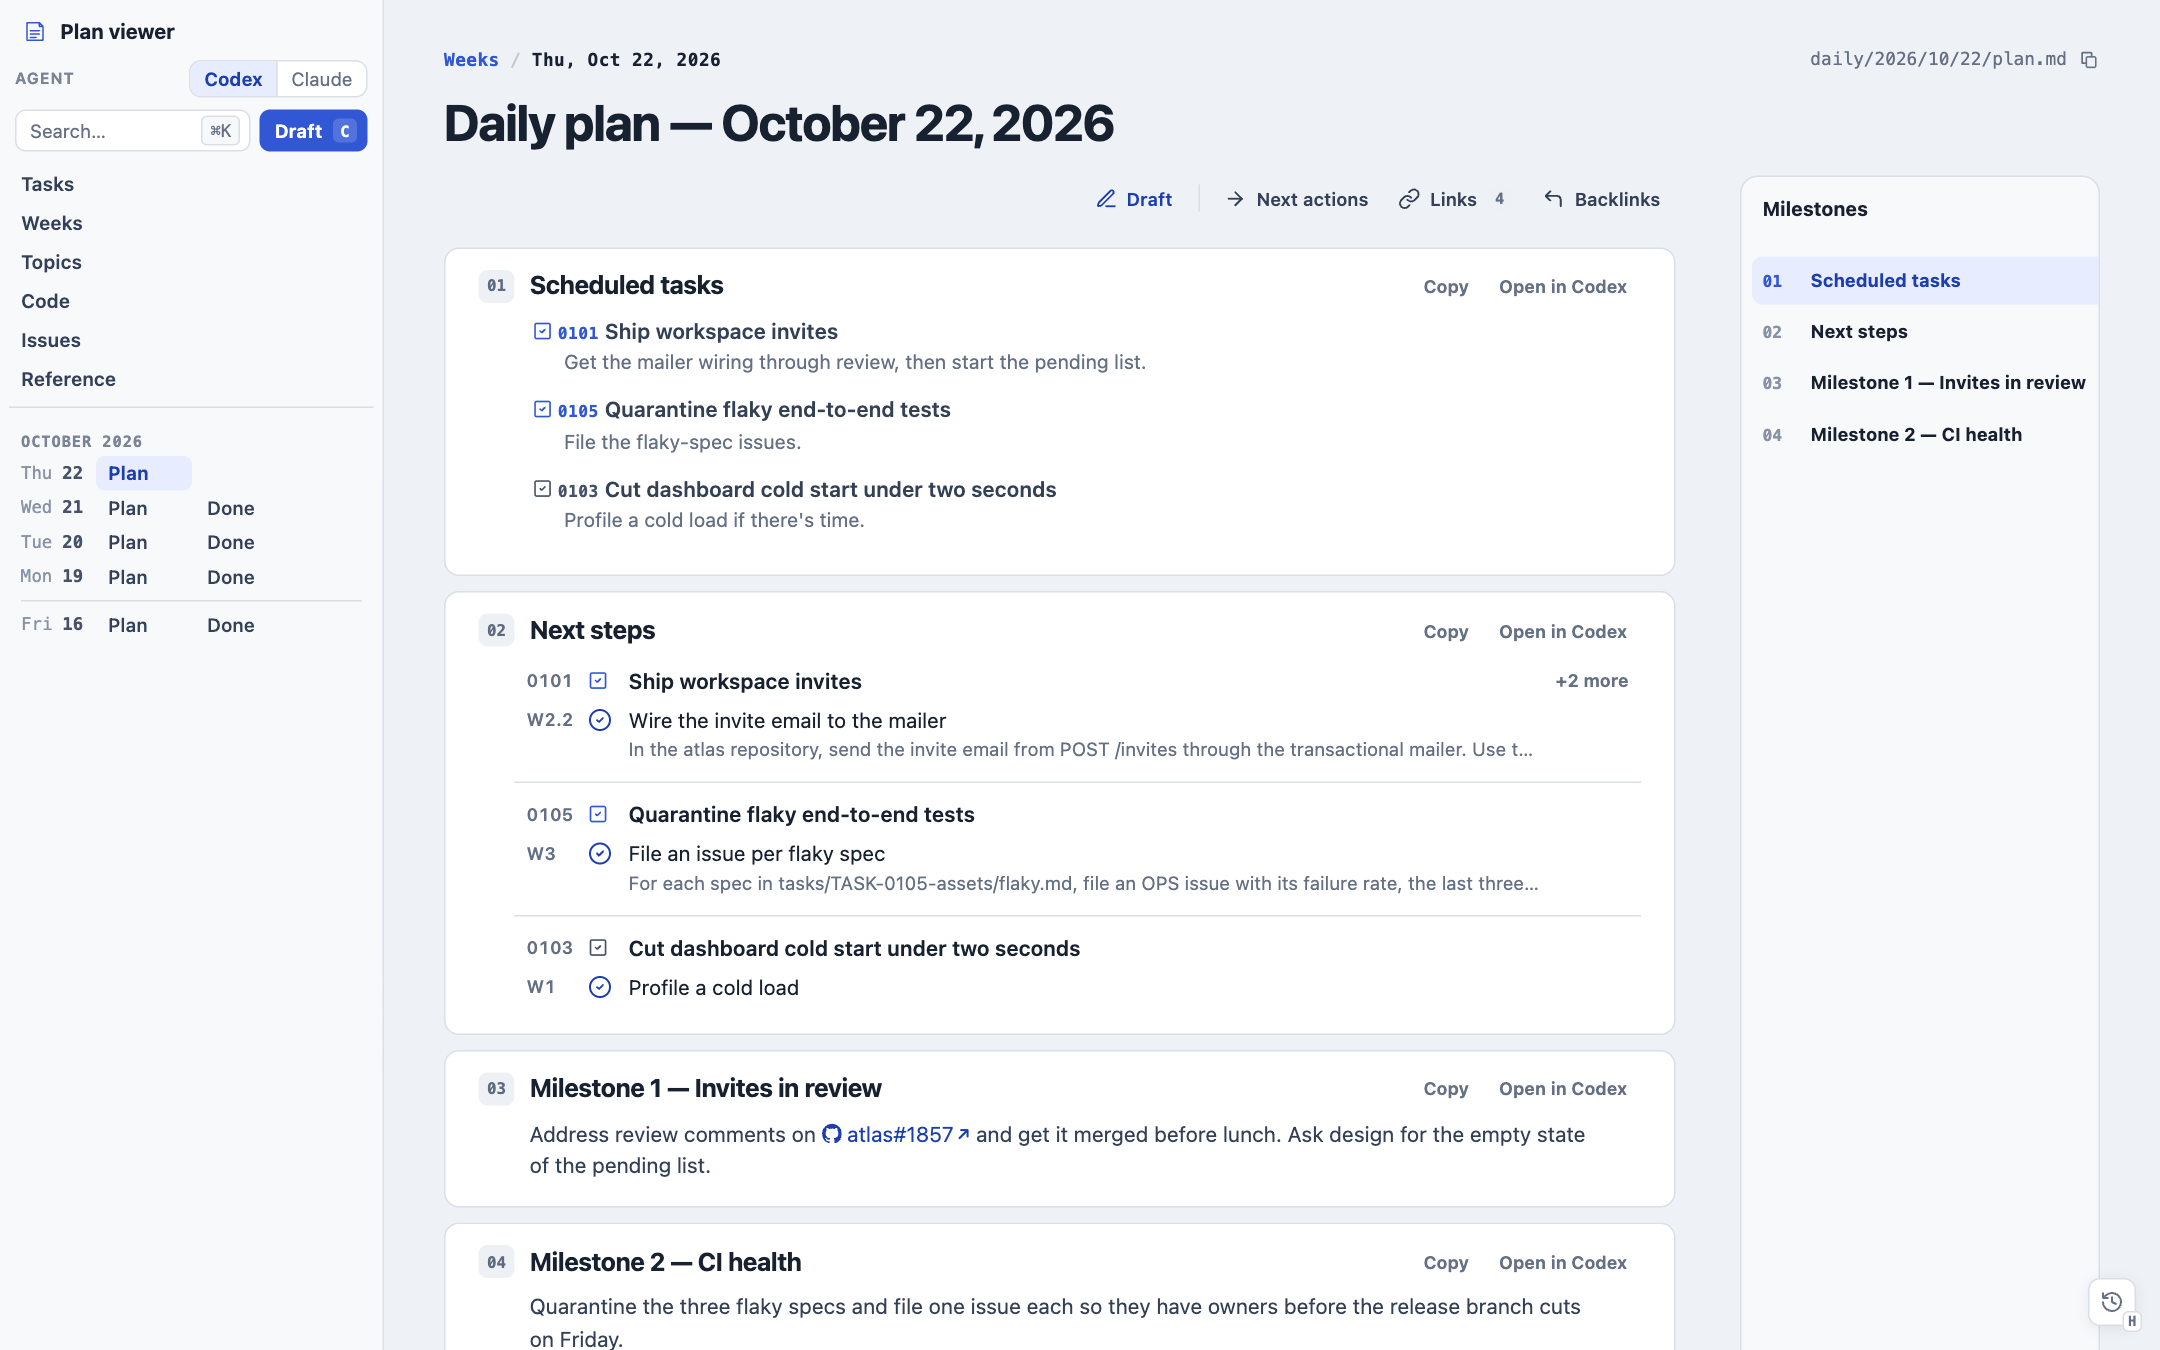
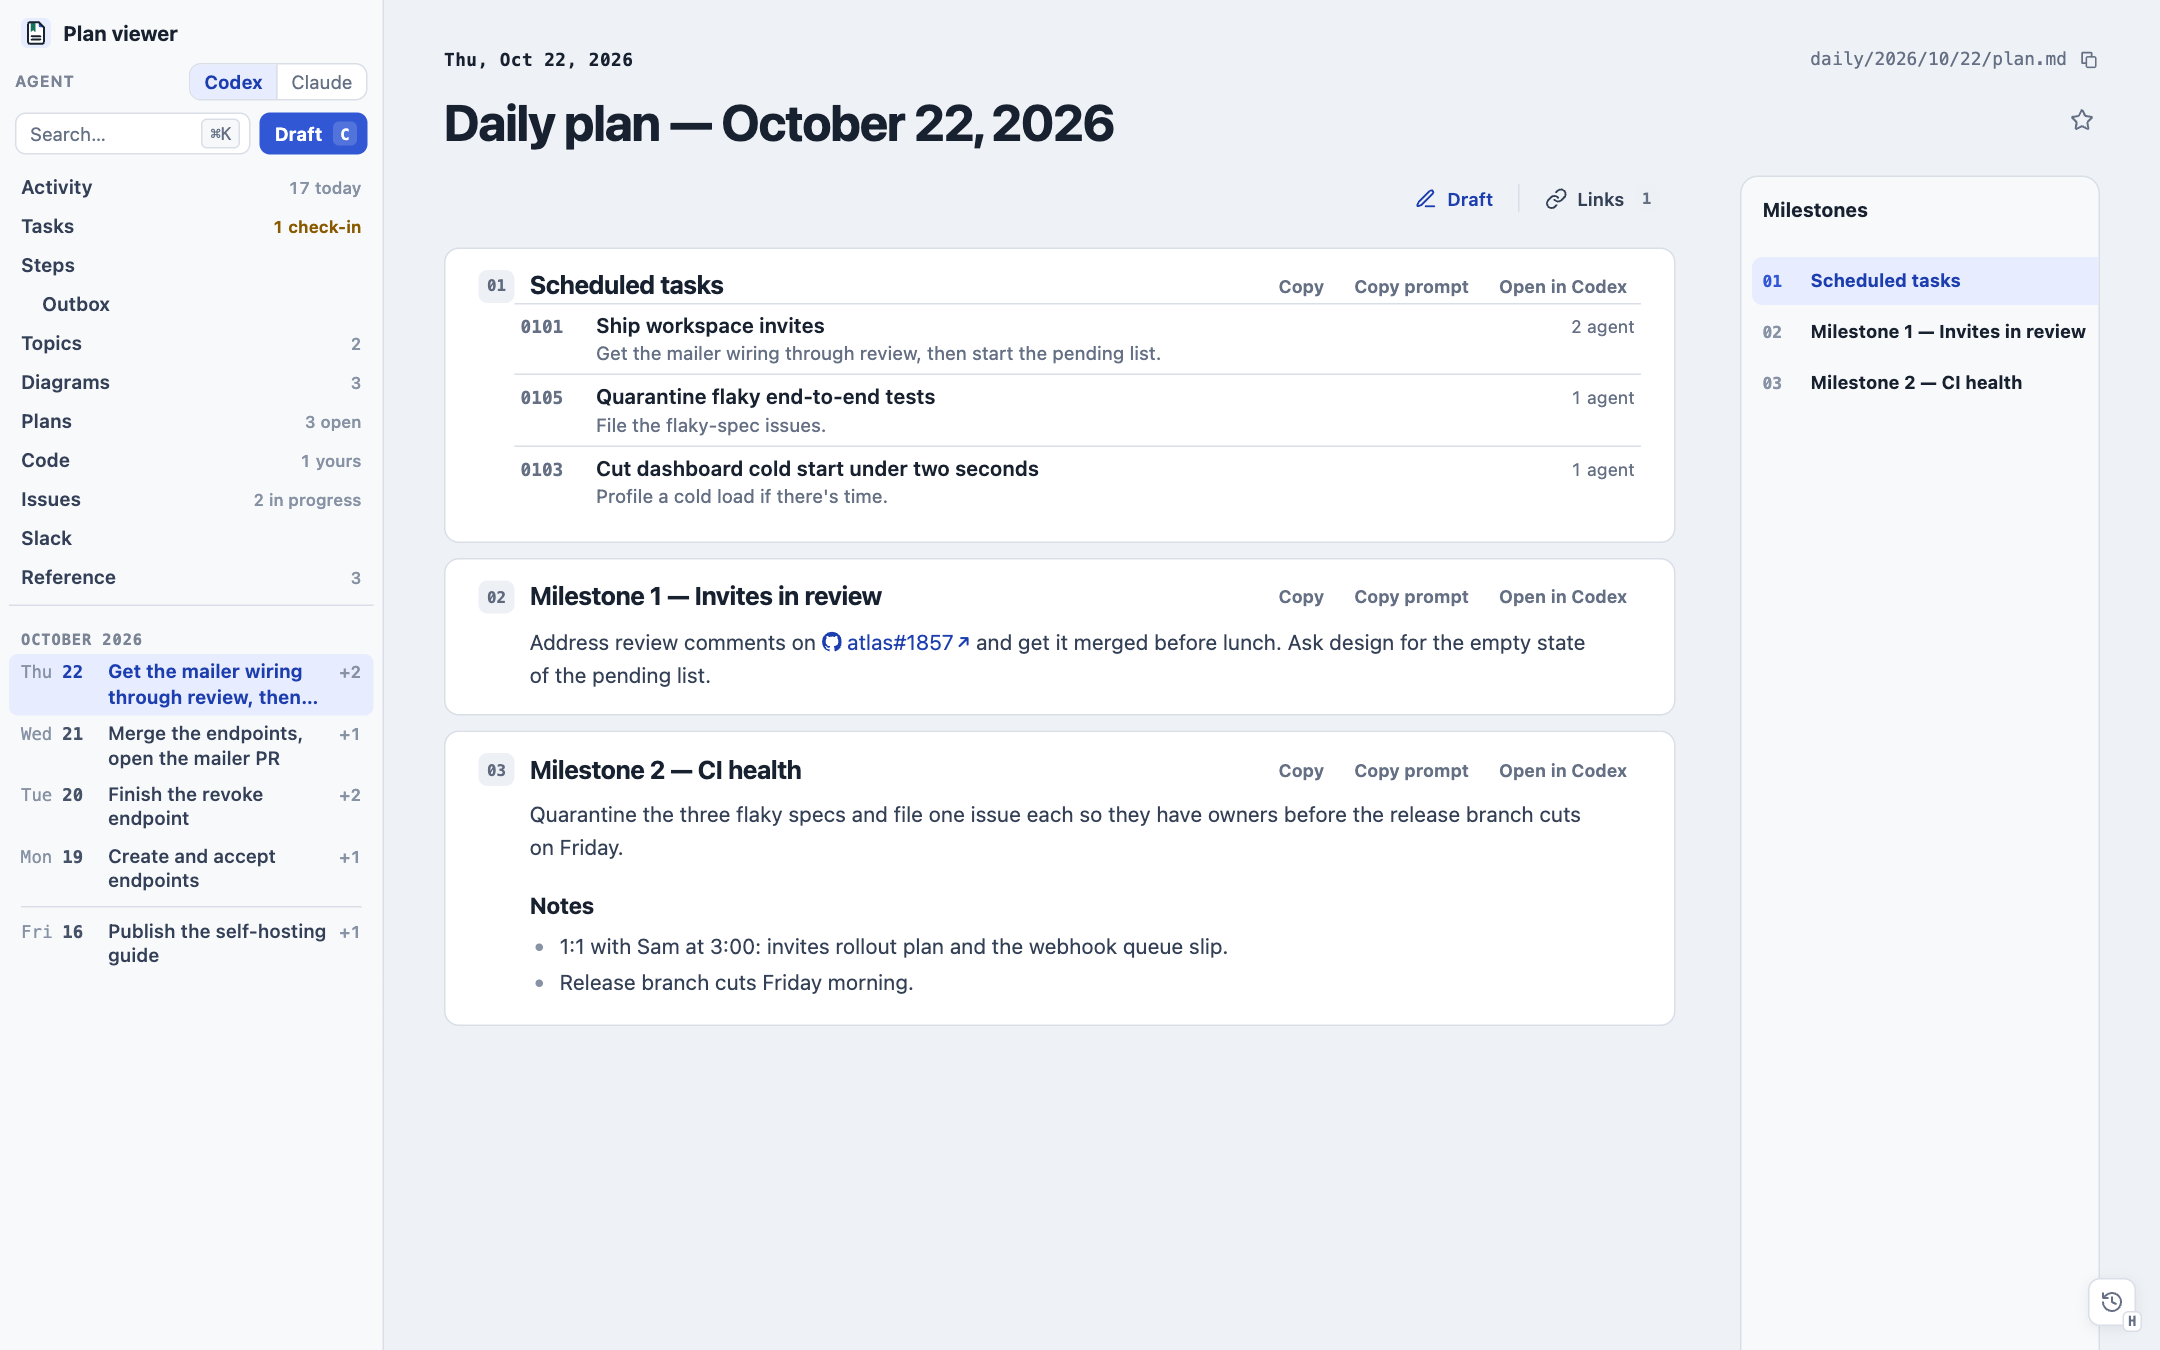
Steps: Scheduled tasks keep the plan's note after a colon too; new README screenshots
A plan's note for a scheduled task is whatever follows the task's link or ID, after a
colon or a dash (scheduledTasks in steps-page.js, tested). The README's today, action and
task screenshots show the Steps panel and the step dialog.

diff --git a/public/app.js b/public/app.js
@@ -15,7 +15,7 @@ import { installBrief } from "./brief.js";
 import { comparePanels, inlineSvg, isDiffDiagram, sourceHtml } from "./diagram.js";
 import { diagramsPageHtml, filterDiagrams } from "./diagrams-page.js";
 import { bindOutbound, outboundPanel } from "./outbound.js";
-import { MOVE_FILTERS, KIND_FILTERS, moveCounts, movePill, showStepLayer, stepActionsHtml, stepBodyHtml, stepInspectorHtml, stepKey, stepRowHtml, stepStackHtml, stepsTableHtml, stepsToolbarHtml, stepToggleHtml, taskStepsHtml, visibleSteps } from "./steps-page.js";
+import { MOVE_FILTERS, KIND_FILTERS, moveCounts, movePill, showStepLayer, stepActionsHtml, stepBodyHtml, stepInspectorHtml, stepKey, scheduledTasks, stepRowHtml, stepStackHtml, stepsTableHtml, stepsToolbarHtml, stepToggleHtml, taskStepsHtml, visibleSteps } from "./steps-page.js";
 import { connectWorld, fetchWorld, openPortfolio, openTaskWorld, taskCounts } from "./world.js";
 import { cachedPlans, loadPlans, openPlan, planForLink, planTitle, plansSummary, renderPlansPage, searchPlans, setPlanNotice } from "./plans.js";
 import { AGENTS, agentApp, agentName, config, issuesOn, referenceConfig, setConfig, setAgentApp } from "./config.js";
@@ -1818,25 +1818,18 @@ const chunkTitle = (doc, chunk) => showsSteps(doc) && /^work breakdown$/i.test(c
 // A plan's Scheduled tasks as one panel: per task its short ID, title and the plan's note for it (muted, in full), with its
 // open steps counted by who moves next. A row opens the step dialog on that task at its first step waiting on you.
 function scheduledTasksHtml(doc, chunk) {
-  const rows = [], rest = [];
-  for (const line of chunk.markdown.split("\n")) {
-    const id = /^[-*] /.test(line) && line.match(/TASK-\d{4}/)?.[0];
-    if (id) rows.push({ id, note: line.replace(/^[-*] /, "").split(/\s+[—–-]\s+/).slice(1).join(" — ") });
-    else if (rows.length && /^\s+\S/.test(line)) rows.at(-1).note += ` ${line.trim().replace(/^[-*] /, "")}`;
-    else rest.push(line);
-  }
+  const { rows, rest } = scheduledTasks(chunk.markdown);
   if (!rows.length) return `<div class="markdown">${renderMarkdownSource(chunk.markdown, doc.path)}</div>`;
   if (!stepsData) loadSteps().then(() => { if (state.view === "document" && state.document === doc) renderDocument(); });
-  const plain = (text) => text.replace(/\[([^\]]*)\]\([^)]*\)/g, "$1").replace(/[`*_]/g, "").trim();
   const html = rows.map(({ id, note }) => {
     const task = state.documents.find((candidate) => candidate.task?.id === id)?.task;
     const steps = stepsData?.steps.filter((step) => step.task === id) || [];
     const count = (moves) => steps.filter((step) => moves.includes(step.move)).length;
     const meta = !task ? "missing" : isSettled(task.status) || task.status === "waiting" ? TASK_STATUS_LABELS[task.status].toLowerCase()
       : [[count(MOVE_FILTERS.you), "you"], [count(MOVE_FILTERS.agent), "agent"], [count(MOVE_FILTERS.others), "waiting"]].filter(([n]) => n).map(([n, label]) => `${n} ${label}`).join(" · ");
-    return stepRowHtml({ key: id, lead: `<code class="step-row-id">${escapeHtml(id.slice(5))}</code>`, title: task?.title || id, note: plain(note), meta: escapeHtml(meta), className: " is-task" });
+    return stepRowHtml({ key: id, lead: `<code class="step-row-id">${escapeHtml(id.slice(5))}</code>`, title: task?.title || id, note, meta: escapeHtml(meta), className: " is-task" });
   }).join("");
-  const remaining = rest.join("\n").trim();
+  const remaining = rest.trim();
   return `<div class="step-rows scheduled-tasks" style="--step-lead: 4ch">${html}</div>${remaining ? `<div class="markdown">${renderMarkdownSource(remaining, doc.path)}</div>` : ""}`;
 }
 

diff --git a/public/steps-page.js b/public/steps-page.js
@@ -104,6 +104,20 @@ export function showStepLayer(panel, move) {
 }
 export const stepRowHtml = ({ key, lead = "", pill = "", title, note = "", meta = "", className = "" }) => `<button type="button" class="step-row${className}" data-open-step="${escapeHtml(key)}"><span class="step-row-lead">${lead}</span><span class="step-row-title">${pill}${escapeHtml(title)}${note ? `<span class="step-row-note">${escapeHtml(note)}</span>` : ""}</span><span class="step-row-meta">${meta}</span></button>`;
 
+// A plan's Scheduled tasks section: one row per task bullet with the plan's note for it as plain text (whatever follows the
+// task's link or ID, after a colon or dash; indented lines under it continue the note), and the section's other lines.
+export function scheduledTasks(markdown) {
+  const rows = [], rest = [];
+  for (const line of markdown.split("\n")) {
+    const id = /^[-*] /.test(line) && line.match(/TASK-\d{4}/)?.[0];
+    if (id) rows.push({ id, note: line.replace(/^[-*]\s+(?:\[[^\]]*\]\([^)]*\)|\S*TASK-\d{4}\S*)\s*[:—–-]?\s*/, "") });
+    else if (rows.length && /^\s+\S/.test(line)) rows.at(-1).note += ` ${line.trim().replace(/^[-*] /, "")}`;
+    else rest.push(line);
+  }
+  for (const row of rows) row.note = row.note.replace(/\[([^\]]*)\]\([^)]*\)/g, "$1").replace(/[`*_]/g, "").trim();
+  return { rows, rest: rest.join("\n") };
+}
+
 // A task's Steps panel (its page and its dock's Work panel): the toggle with this task's counts, then every step under a
 // light header line per workstream (top-level item), each row with its ID, status icon, a pill only when it waits on you,
 // the full title, and gray meta (`ready`, `after W1.2`, `running`, its note count). Completed and deferred steps sit behind

diff --git a/step-list.test.js b/step-list.test.js
@@ -1,7 +1,7 @@
 import assert from 'node:assert/strict';
 import test from 'node:test';
 import { parseWorkBreakdown } from './public/actions.js';
-import { movePill, taskStepsHtml, stepActionsHtml, stepBodyHtml, stepRowHtml, stepToggleHtml } from './public/steps-page.js';
+import { movePill, scheduledTasks, taskStepsHtml, stepActionsHtml, stepBodyHtml, stepRowHtml, stepToggleHtml } from './public/steps-page.js';
 
 const step = (fields) => ({ key: 'TASK-0101 W1', task: 'TASK-0101', id: 'W1', title: 'Decide the rollout', reason: 'decide', move: 'you-decide', kind: 'decision', ...fields });
 
@@ -55,4 +55,21 @@ test("a task's Steps group rows under workstreams, pill only what waits on you, 
   assert.doesNotMatch(you, /TASK-0101:W1.3/);
   assert.match(html, /data-step-layer="all">/, 'All is shown by default');
   assert.doesNotMatch(taskStepsHtml({ taskId: 'TASK-0101', work, tools: false }), /popover|data-move-default/);
+});
+
+test("a plan's scheduled tasks keep each task's note, whichever separator the plan uses", () => {
+  const { rows, rest } = scheduledTasks([
+    '- [TASK-0101](../../../../tasks/TASK-0101.md): merge #12, then [ask](https://example.com) about `W2`.',
+    '  - and check the flag',
+    '- TASK-0102 — File the issues.',
+    '- [TASK-0103](../TASK-0103.md)',
+    '',
+    'Carry-over goes to Monday.',
+  ].join('\n'));
+  assert.deepEqual(rows, [
+    { id: 'TASK-0101', note: 'merge #12, then ask about W2. and check the flag' },
+    { id: 'TASK-0102', note: 'File the issues.' },
+    { id: 'TASK-0103', note: '' },
+  ]);
+  assert.match(rest, /Carry-over goes to Monday/);
 });

diff --git a/README.md b/README.md
@@ -2,23 +2,23 @@
 
 **A local reading desk for planning in Markdown and handing the work to coding agents.**
 
-You keep daily plans, tasks, and notes as plain Markdown files in a folder or Git repository. Plan Viewer turns that folder into a fast, keyboard-driven app: today's plan as work cards, tasks with dependency graphs, and one-click handoffs that load any piece of work into a [Codex](https://openai.com/codex/) or [Claude](https://claude.com/download) desktop draft. Beside your plans sit the pull requests, worktrees, diffs, and issues that the work touches.
+You keep daily plans, tasks, and notes as plain Markdown files in a folder or Git repository. Plan Viewer turns that folder into a fast, keyboard-driven app: today's plan as work cards, tasks as lists of steps with dependency graphs, and one-click handoffs that load any piece of work into a [Codex](https://openai.com/codex/) or [Claude](https://claude.com/download) desktop draft. Beside your plans sit the pull requests, worktrees, diffs, and issues that the work touches.
 
 The viewer never edits your files. Your Markdown stays the source of truth, readable anywhere, and agents make the changes.
 
-![Today's plan, with scheduled tasks, their next actions, and the day's milestones as cards](docs/images/today.png)
+![Today's plan, with its scheduled tasks and the day's milestones as cards](docs/images/today.png)
 
 ## What you get
 
-**Plans that read as work.** The viewer opens today's plan. Each milestone or section is a card, and scheduled tasks bring their next action with them. Tasks, PRs, commits, and Linear or Jira keys become links that show live titles and states.
+**Plans that read as work.** The viewer opens today's plan. Each milestone or section is a card, and scheduled tasks show how many of their steps wait on you, an agent or someone else. Tasks, PRs, commits, and Linear or Jira keys become links that show live titles and states.
 
-**Hand any piece of work to an agent.** Every card and next action opens as an editable draft in Codex or Claude Desktop, with the source context attached. You add a note, review the prompt, and send it yourself. Nothing runs until you do.
+**Hand any piece of work to an agent.** Every card and step opens as an editable draft in Codex or Claude Desktop, with the source context attached. You add a note, review the prompt, and send it yourself. Nothing runs until you do.
 
-![Preparing a next action for an agent](docs/images/action.png)
+![A step, with what it waits on and its prompt, ready for an agent](docs/images/action.png)
 
-**Tasks with real structure.** A task file can carry a work breakdown with prerequisites. The viewer draws it as a tree and a dependency graph, marks what is ready, and blocks actions whose prerequisites aren't done. `plan-viewer lint` keeps every task valid.
+**Tasks with real structure.** A task file can carry a work breakdown with prerequisites. The viewer lists its steps by who moves next, with a dependency graph one click away, and marks what is ready and what waits on prerequisites. `plan-viewer lint` keeps every task valid.
 
-![A task with its work breakdown and dependency graph](docs/images/task.png)
+![A task's steps](docs/images/task.png)
 
 **Every task in one list.** Tasks lists everything unfinished, with an inspector for the selected one. Progress lives on the task itself: its status and dated updates.
 
